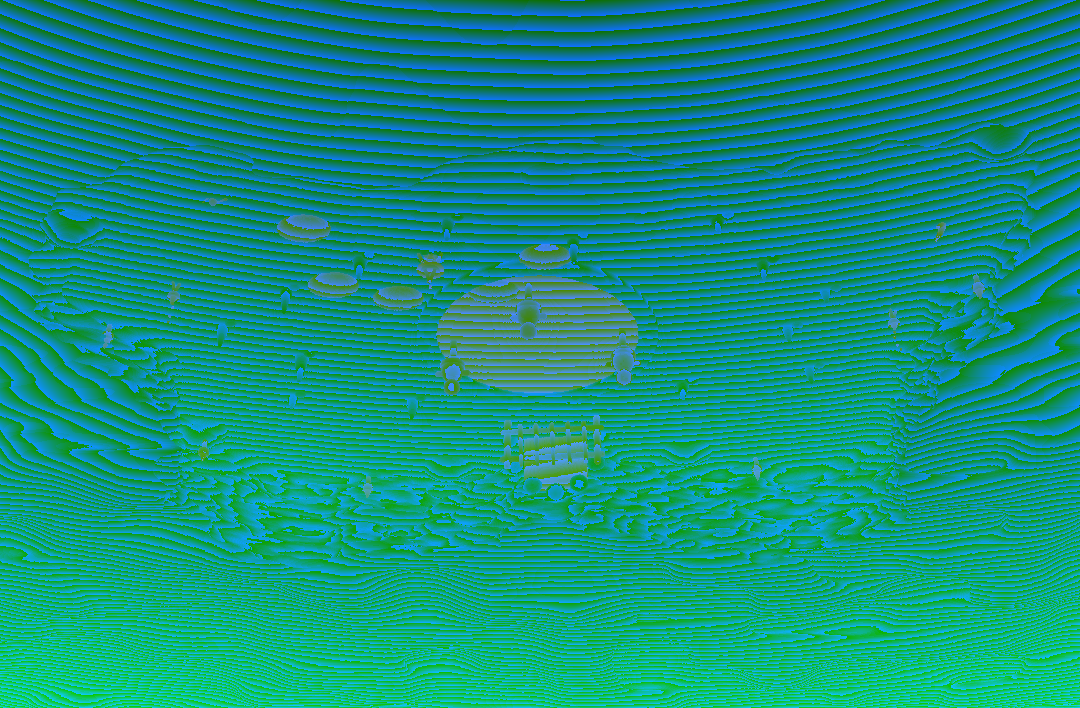
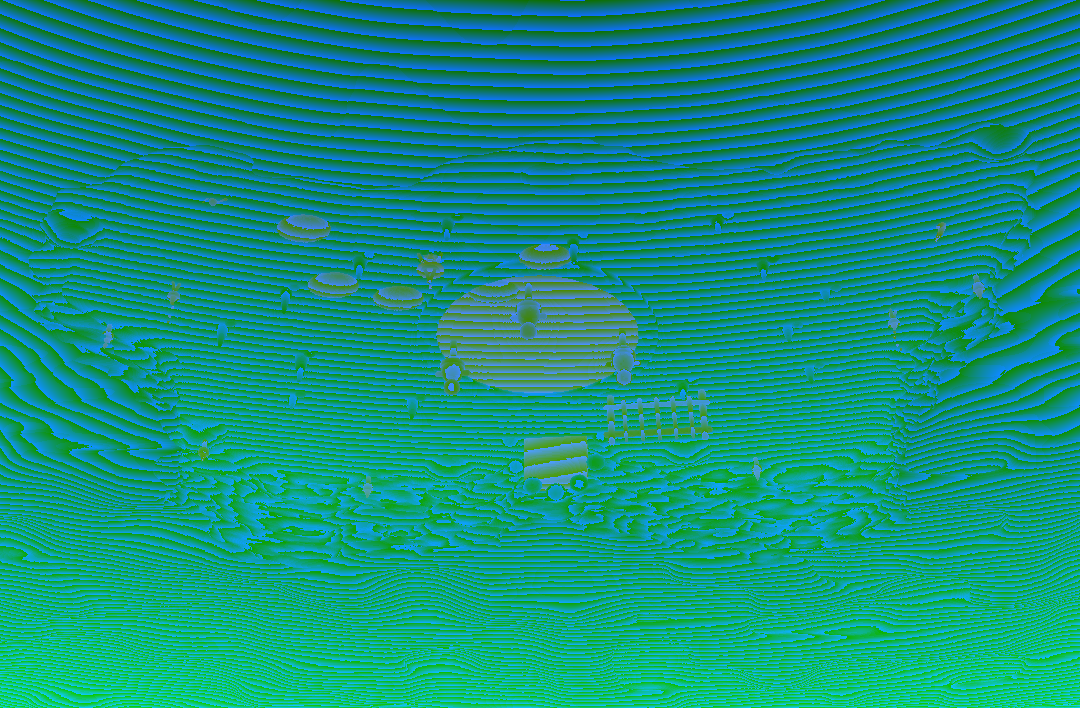
訓練場の師範と弟子の並びを直す・武器立てを入口からどける
Claude-Session: https://claude.ai/code/session_01MpJPWy321815AwYbXUCf2V

Changed region(s): [[0.4583, 0.5593, 0.6722, 0.6836]]

diff --git a/index.html b/index.html
@@ -7238,7 +7238,7 @@ document.addEventListener("click", ev => {
 { const _oc2 = openChest19; openChest19 = function (S, c) { if (c.kind !== "lvall") return _oc2(S, c); if (!S.mons.length) return _oc2(S, c);
   return { text: "👑 覚醒", sub: "Lv+3 する子を1体えらんでね", sp: null, feed: 1, awaken: true, evos: [] }; }; }
 
-const VER20 = "No.224（11/19 08:37）";
+const VER20 = "No.225（11/19 08:49）";
 // ================= proto20：ダンジョンを見る画面と、配置する画面を分ける =================
 // ・ダンジョン画面：洞窟を大きく。部屋をタップ → 部屋ボード（全画面）
 // ・🧭育成：育てる→稼ぐ／守るの流れで見る。卒業Lv・毎朝おまかせ
@@ -10821,7 +10821,7 @@ const DOJO25 = (x, z) => { const X = (+x).toFixed(2), Z = (+z).toFixed(2);
    float st=sEll(dq-vec3(0.0,1.1,0.0),vec3(0.3,0.42,0.26));st=min(st,sEll(dq-vec3(0.0,1.72,0.0),vec3(0.2,0.2,0.2)));st+=(vnoise(dq*14.0)-0.5)*0.03;if(st<rr.x)rr=vec2(st,13.0);
    float rp=max(abs(length(dq.xz)-0.31)-0.02,abs(dq.y-1.0)-0.03);if(rp<rr.x)rr=vec2(rp,14.0);}
   float rug=max(sEll(q-vec3(0.0,0.02,-2.7),vec3(0.95,0.04,0.6)),-q.y);if(rug<rr.x)rr=vec2(rug,27.0);
-  vec3 w=q-vec3(0.0,0.0,-4.5);float rk=min(sTap(w,vec3(-1.4,0.0,0.0),vec3(-1.4,1.7,0.0),0.08,0.07),sTap(w,vec3(1.4,0.0,0.0),vec3(1.4,1.7,0.0),0.08,0.07));
+  vec3 w=q-vec3(3.3,0.0,-3.4);float rk=min(sTap(w,vec3(-1.4,0.0,0.0),vec3(-1.4,1.7,0.0),0.08,0.07),sTap(w,vec3(1.4,0.0,0.0),vec3(1.4,1.7,0.0),0.08,0.07));
   rk=min(rk,sTap(w,vec3(-1.55,1.45,0.0),vec3(1.55,1.45,0.0),0.06,0.06));rk=min(rk,sTap(w,vec3(-1.55,0.5,0.05),vec3(1.55,0.5,0.05),0.05,0.05));if(rk<rr.x)rr=vec2(rk,12.0);
   float sw=1e3;for(int i=0;i<5;i++){float sx=-1.0+float(i)*0.5;sw=min(sw,sTap(w,vec3(sx,0.35,0.12),vec3(sx+0.05,1.75,0.1),0.045,0.02));}if(sw<rr.x)rr=vec2(sw,18.0);rr.x*=1.6;if(rr.x<r.x)r=rr;}`; };
 const HAI25 = (() => {
@@ -10832,7 +10832,7 @@ const HAI25 = (() => {
     { id: "stake", name: "木人（打ちこみ台）", g: "train", txt: T.slice(1, 4).join("\n"), foot: [[2.54, -4.43, 0.7]] },
     { id: "rocks", name: "岩の山", g: "train", txt: T[4], foot: [[6.8, -3.9, 1.0]] },
     { id: "ring", name: "訓練の円（石の輪）", g: "train", txt: T[5], foot: [] },
-    { id: "dojo", name: "訓練場（部屋の真ん中）", g: "none", txt: DOJO25(0, -0.5), light: "LIGHT(0.0,3.6,0.8,1.0,0.75,0.45,4.0)", foot: [[-3.9, -0.5, 0.7], [3.9, -0.5, 0.7], [0, 3.4, 0.7], [0, -7.7, 2.4]], ringAt: [0, -0.5] },
+    { id: "dojo", name: "訓練場（部屋の真ん中）", g: "none", txt: DOJO25(0, -0.5), light: "LIGHT(0.0,3.6,0.8,1.0,0.75,0.45,4.0)", foot: [[-3.9, -0.5, 0.7], [3.9, -0.5, 0.7], [0, 3.4, 0.7], [5.3, -5.9, 2.4]], ringAt: [0, -0.5] },
     { id: "pit1", name: "たき火（訓練所）", g: "train", txt: "FIREPIT(0.0,-2.45)", light: "LIGHT(0.0,0.75,-2.45,1.0,0.55,0.22,4.2)", foot: [[0, -2.45, 0.8]] },
     { id: "ore", name: "壁の鉱脈（3か所）", g: "none", txt: VEIN25(3.8, -10.6) + VEIN25(7.6, -10.6) + VEIN25(15.6, -7.6), foot: [[3.8, -9.8, 1.4], [7.6, -9.8, 1.4], [14.9, -7.0, 1.4]], vein: [[3.8, -10.6], [7.6, -10.6], [15.6, -7.6]] },
     { id: "rail", name: "線路とトロッコ", g: "mine", txt: M.slice(4, 9).join("\n"), foot: [[0, -0.4, 0.9], [0, -3.5, 0.6], [0, 1.5, 0.6]] },
@@ -10903,10 +10903,11 @@ const HAI25 = (() => {
         c.mode = "mine"; c.r = Math.atan2(v[0] - px, v[1] - pz); c.look = v; pos = [px, pz]; }
       else if (e.act === "mine" && bip && ores.length && oi < ores.length * 2) { const o = ores[oi % ores.length], side = oi >= ores.length ? -1 : 1; oi++;
         const rr = Math.atan2(-(o[0]), -(o[1] - 0.0)) * 0 + (side > 0 ? 0.6 : -2.5); const ps = placeMine24([o[0], 0, o[1]], rr); c.mode = "mine"; c.r = rr; pos = [ps[0], ps[2]]; }
-      else if (e.act === "train" && bip && ring && ti < 9) { const [cx, cz] = ring;
-        if (ti === 0) { const rx = cx, rz = cz - 4.3; ti++; if (free(rx, rz, r * 0.5)) { c.mode = "idle"; c.boss = true; boss = [rx, rz]; c.r = 0; pos = [rx, rz]; } }   // いちばん大きい子が師範：奥に立って皆を見る
-        else { const k2 = ti - 1, ang = [0.55, 2.6, 0.95, 2.2, 0.25, 2.9, 1.25, 1.9][k2] || 1.0, rr = 2.4 + (k2 % 3) * 0.45, rx = cx + Math.cos(ang) * rr, rz = cz + Math.sin(ang) * rr * 0.85 - 0.5; ti++;
-          if (free(rx, rz, r * 0.5)) { const L2 = boss || [cx, cz - 4.3]; c.mode = R() < 0.6 ? "slash" : "lift"; c.look = L2; c.r = Math.atan2(L2[0] - rx, L2[1] - rz); pos = [rx, rz]; } } }
+      else if (e.act === "train" && bip && ring && ti < 12) { const [cx, cz] = ring;
+        if (ti === 0) { const rx = cx, rz = cz - 4.3; ti++; if (free(rx, rz, r * 0.5)) { c.mode = "idle"; c.boss = true; c.look = [rx + 0.01, rz + 6]; boss = [rx, rz]; c.r = 0; pos = [rx, rz]; } }   // いちばん大きい子が師範：奥に立って皆を見る
+        else { ti++; let rx = 0, rz = 0, ok = false;
+          for (let s = 0; s < 24 && !ok; s++) { const ang = [0.55, 2.6, 0.95, 2.2, 0.25, 2.9, 1.25, 1.9][s % 8] + Math.floor(s / 8) * 0.18, rr = [2.2, 3.0, 3.8][Math.floor(s / 8)]; rx = cx + Math.cos(ang) * rr; rz = cz + Math.sin(ang) * rr * 0.85 - 0.5; ok = free(rx, rz, r * 0.45); }
+          if (ok) { const L2 = boss || [cx, cz - 4.3]; c.mode = R() < 0.6 ? "slash" : "lift"; c.look = L2; c.r = Math.atan2(L2[0] - rx, L2[1] - rz); pos = [rx, rz]; } } }
       if (!pos && e.act === "sleep" && bip && beds.length && bi < beds.length) { const b = beds[bi++]; c.mode = "sleep"; c.lie = true; c.r = 1.2; pos = [b[0] + 0.2, b[1]]; }
       if (!pos) { for (let tries = 0; tries < 400 && !pos; tries++) { const x = (R() * 2 - 1) * 17.5, z = -8.8 + R() * 18; if (free(x, z, r)) pos = [x, z]; } }
       if (!pos) return;
@@ -11022,7 +11023,7 @@ function roomKind25(i){ const R = S.path[i] || {}; if (i === lordIdx(S)) return 
   return F.includes("train") ? "train" : F.includes("mine") ? "mine" : F.includes("bed") ? "bed" : R.fac === "mine" ? "mine" : R.fac === "bed" ? "bed" : R.fac === "train" ? "train" : F.includes("nest") || R.fac === "nest" ? "nest" : F.includes("watch") || R.fac === "watch" ? "watch" : F.includes("gate") || R.fac === "gate" ? "entry" : "plain"; }
 // 配った洞窟の絵（bg25/部屋の種類_c.png・_d.png）があれば、それを読み込む
 function setRoom25(i){ const C = B3.C; C.setRoom(B3.roomKey); const k = roomKind25(i); if (!BGSHIP25[k]) return; C.putBgImages(`bg25/${k}_c.webp?v=${BGSHIP25[k]}`, `bg25/${k}_d.webp?v=${BGSHIP25[k]}`, C.st.bgKey); }
-const BGSHIP25 = { train: "4451dfe0", mine: "6ba1ef93", bed: "2e371731", lord: "41ce104d", plain: "86e68c06", nest: "d981244e", watch: "6686d08e", entry: "9104082d", train_mine: "e76bc1c5", train_bed: "f46dd35e", train_nest: "efd80d6f", train_watch: "b99d6313", mine_bed: "5321aec4", mine_nest: "fa30c361", mine_watch: "8aca37cb", bed_nest: "b9f7e0d2", bed_watch: "170508f1", nest_watch: "c182a20f", lordday: "41ce104d" };
+const BGSHIP25 = { train: "67281e1f", mine: "6ba1ef93", bed: "2e371731", lord: "41ce104d", plain: "86e68c06", nest: "d981244e", watch: "6686d08e", entry: "9104082d", train_mine: "5c556f8b", train_bed: "60feb1d8", train_nest: "d2e781a2", train_watch: "1790fb25", mine_bed: "5321aec4", mine_nest: "fa30c361", mine_watch: "8aca37cb", bed_nest: "b9f7e0d2", bed_watch: "170508f1", nest_watch: "c182a20f", lordday: "41ce104d" };
 function roomKey25(i){ const on = {}; ROOMSET25[roomKind25(i)].forEach(k => on[k] = true); return HAI25.room(on); }
 // ---- 3Dのキャラの種類 ----
 const heroSp25 = h => (typeof heroId === "function" ? String(heroId(h)).replace(/\d+$/, "") : h.job) || "warrior";
